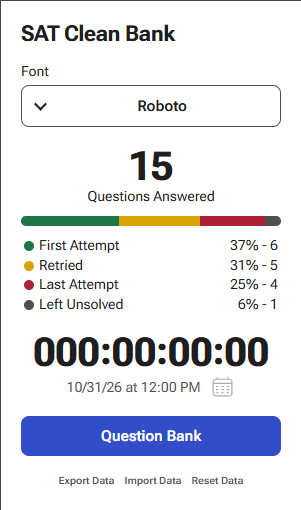
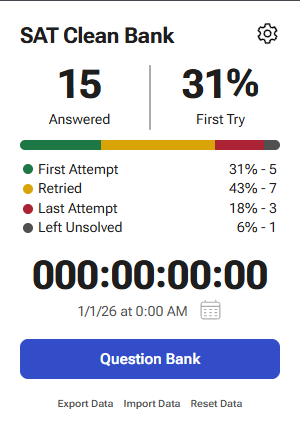
centered and fixed calendar theme, removed extra scrollbar

diff --git a/popup/popup.html b/popup/popup.html
@@ -51,13 +51,15 @@
 
                 <div id="change-date">
                     <p class="secondary-text" id="testing-day">1/1/26 at 12:00 AM</p>
-                    <button type="button" id="open-calendar">
-                        <svg class="calendar-icon" xmlns="http://www.w3.org/2000/svg" width="25" height="25" viewBox="0 0 24 24" fill="none">
-                            <path d="M3 9H21M7 3V5M17 3V5M6 12H8M11 12H13M16 12H18M6 15H8M11 15H13M16 15H18M6 18H8M11 18H13M16 18H18M6.2 21H17.8C18.9201 21 19.4802 21 19.908 20.782C20.2843 20.5903    20.5903 20.2843 20.782 19.908C21 19.4802 21 18.9201 21 17.8V8.2C21 7.07989 21 6.51984 20.782 6.09202C20.5903 5.71569 20.2843 5.40973 19.908 5.21799C19.4802 5 18.9201 5 17.8 5H6.2C5.0799 5 4.51984 5 4.09202 5.21799C3.71569 5.40973 3.40973 5.71569 3.21799 6.09202C3 6.51984 3 7.07989 3 8.2V17.8C3 18.9201 3 19.4802 3.21799 19.908C3.40973 20.2843 3.71569 20.5903 4.09202 20.782C4.51984 21 5.07989 21 6.2 21Z"
-                            stroke="currentcolor" stroke-width="1" stroke-linecap="round"/>
-                        </svg>
-                    </button>
-                    <input type="datetime-local" id="calendar" hidden>
+                    <div class="calendar-anchor">
+                        <button type="button" id="open-calendar">
+                            <svg class="calendar-icon" xmlns="http://www.w3.org/2000/svg" width="25" height="25" viewBox="0 0 24 24" fill="none">
+                                <path d="M3 9H21M7 3V5M17 3V5M6 12H8M11 12H13M16 12H18M6 15H8M11 15H13M16 15H18M6 18H8M11 18H13M16 18H18M6.2 21H17.8C18.9201 21 19.4802 21 19.908 20.782C20.2843 20.5903    20.5903 20.2843 20.782 19.908C21 19.4802 21 18.9201 21 17.8V8.2C21 7.07989 21 6.51984 20.782 6.09202C20.5903 5.71569 20.2843 5.40973 19.908 5.21799C19.4802 5 18.9201 5 17.8 5H6.2C5.0799 5 4.51984 5 4.09202 5.21799C3.71569 5.40973 3.40973 5.71569 3.21799 6.09202C3 6.51984 3 7.07989 3 8.2V17.8C3 18.9201 3 19.4802 3.21799 19.908C3.40973 20.2843 3.71569 20.5903 4.09202 20.782C4.51984 21 5.07989 21 6.2 21Z"
+                                stroke="currentcolor" stroke-width="1" stroke-linecap="round"/>
+                            </svg>
+                        </button>
+                        <input type="datetime-local" id="calendar">
+                    </div>
                 </div>
 
                 <button type="button" id="qb-btn">Question Bank</button>

diff --git a/main.js b/main.js
@@ -11,6 +11,7 @@
   let lastSaved = "";
   let busy = false;
   let scheduleTimer = null;
+  let ignoreNextStorageChange = false;
 
   // helper funcs
 
@@ -76,7 +77,7 @@
       solved: questionState.solved,
       ts: Date.now()
     };
-    lastSaved = JSON.stringify(store.questions);
+    ignoreNextStorageChange = true;
     chrome.storage.local.set({ scb_questions: store.questions });
   }
 
@@ -131,6 +132,7 @@
   function cleanUpQuestionModal(modal) {
     if (!modal.header || !modal.content || !modal.footer) return;
 
+    document.documentElement.classList.add("scb-no-scroll");
     modal.root.classList.remove("scb-hidden");
     modal.content.classList.remove("scb-hidden");
 
@@ -407,11 +409,15 @@
 
   async function handleModalChange() {
     const modal = findQuestionModal();
-    if (!modal) return;
+    if (!modal) {
+      document.documentElement.classList.remove("scb-no-scroll");
+      return;
+    };
 
     const loading = isModalLoading(modal)
 
     if (loading && questionState.id == null) {
+      document.documentElement.classList.add("scb-no-scroll");
       modal.root.classList.add("scb-hidden")
     }
   }
@@ -428,11 +434,11 @@
     }
 
     if (changes.scb_questions) {
-      const incoming = changes.scb_questions.newValue ?? {};
-      const incomingJson = JSON.stringify(incoming);
-      if (incomingJson === lastSaved) return;
-      store.questions = incoming;
-      lastSaved = incomingJson;
+      if (ignoreNextStorageChange) {
+        ignoreNextStorageChange = false;
+        return;
+      }
+      store.questions = changes.scb_questions.newValue ?? {};
       questionState.id = null;
       schedule();
     }

diff --git a/style.css b/style.css
@@ -10,11 +10,6 @@
     gap: 0px !important;
 }
 
-.cb-modal-overlay {
-    transition: none !important;
-    animation: none !important;
-}
-
 .secondary-text {
     color: var(--scb-gray) !important;
 }
@@ -33,7 +28,20 @@
     transform: none !important;
     display: flex;
     flex-direction: column;
-    scrollbar-gutter: stable !important;
+}
+
+.cb-modal-overlay {
+    transition: none !important;
+    animation: none !important;
+}
+
+html.scb-no-scroll,
+html.scb-no-scroll body {
+    overflow: hidden !important;
+}
+
+.cb-modal-container {
+    scrollbar-gutter: auto !important;
 }
 
 /*heading*/
@@ -61,7 +69,7 @@
 
 .cb-dialog-header {
     padding: 8px 12px !important;
-    border-color: var(--scb-light-gray) !important;
+    border-color: #b2b2b2 !important;
 }
 
 #question-card {
@@ -71,7 +79,7 @@
 /*answer choices*/
 
 .question-info {
-    scrollbar-gutter: stable !important;
+    scrollbar-gutter: stable both-edges !important;
 }
 
 .scb-choice-button + .scb-choice-button {

diff --git a/popup/popup.css b/popup/popup.css
@@ -1,6 +1,10 @@
 @import url("../shared/colors.css");
 @import url("../shared/fonts.css");
 
+:root {
+    color-scheme: light;
+}
+
 * {
     box-sizing: border-box;
 }
@@ -349,6 +353,24 @@ button:active {
     position: relative;
     top: -0.05em;
     margin-bottom: 0px;
+}
+
+.calendar-anchor {
+    position: relative;
+    display: flex;
+    align-items: center;
+    justify-content: center;
+}
+
+#calendar {
+    position: absolute;
+    width: 1px;
+    height: 1px;
+    opacity: 0;
+    pointer-events: none;
+    border: 0;
+    padding: 0;
+    color-scheme: light;
 }
 
 #change-date {

diff --git a/README.md b/README.md
@@ -7,23 +7,25 @@ Planned release before 11/7/26.
 
 ## Installation
 
-#### 1. Clone the repo
+### 1a. Clone the repo
 ```bash
 git clone "https://github.com/shiwntr/SAT-Clean-Bank.git"
 ```
 
-#### 2. Go to chrome extensions.
+### 1b. Or download the repo zip and extract it.
+
+### 2. Go to chrome extensions
 
 chrome://extensions
 
-#### 3. Enable developer mode if not enabled already.
-#### 4. Press load unpacked.
-#### 5. Select the newly cloned repo.
+### 3. Enable developer mode if not enabled already.
+### 4. Press load unpacked.
+### 5. Select the folder.
 
 ## Screenshots
 
 ![question](github-assets/question.png)
-![extension](github-assets/extension.png)
+![extension](github-assets/extension.gif)
 
 ## Notes
 + Currently only supports Chrome
